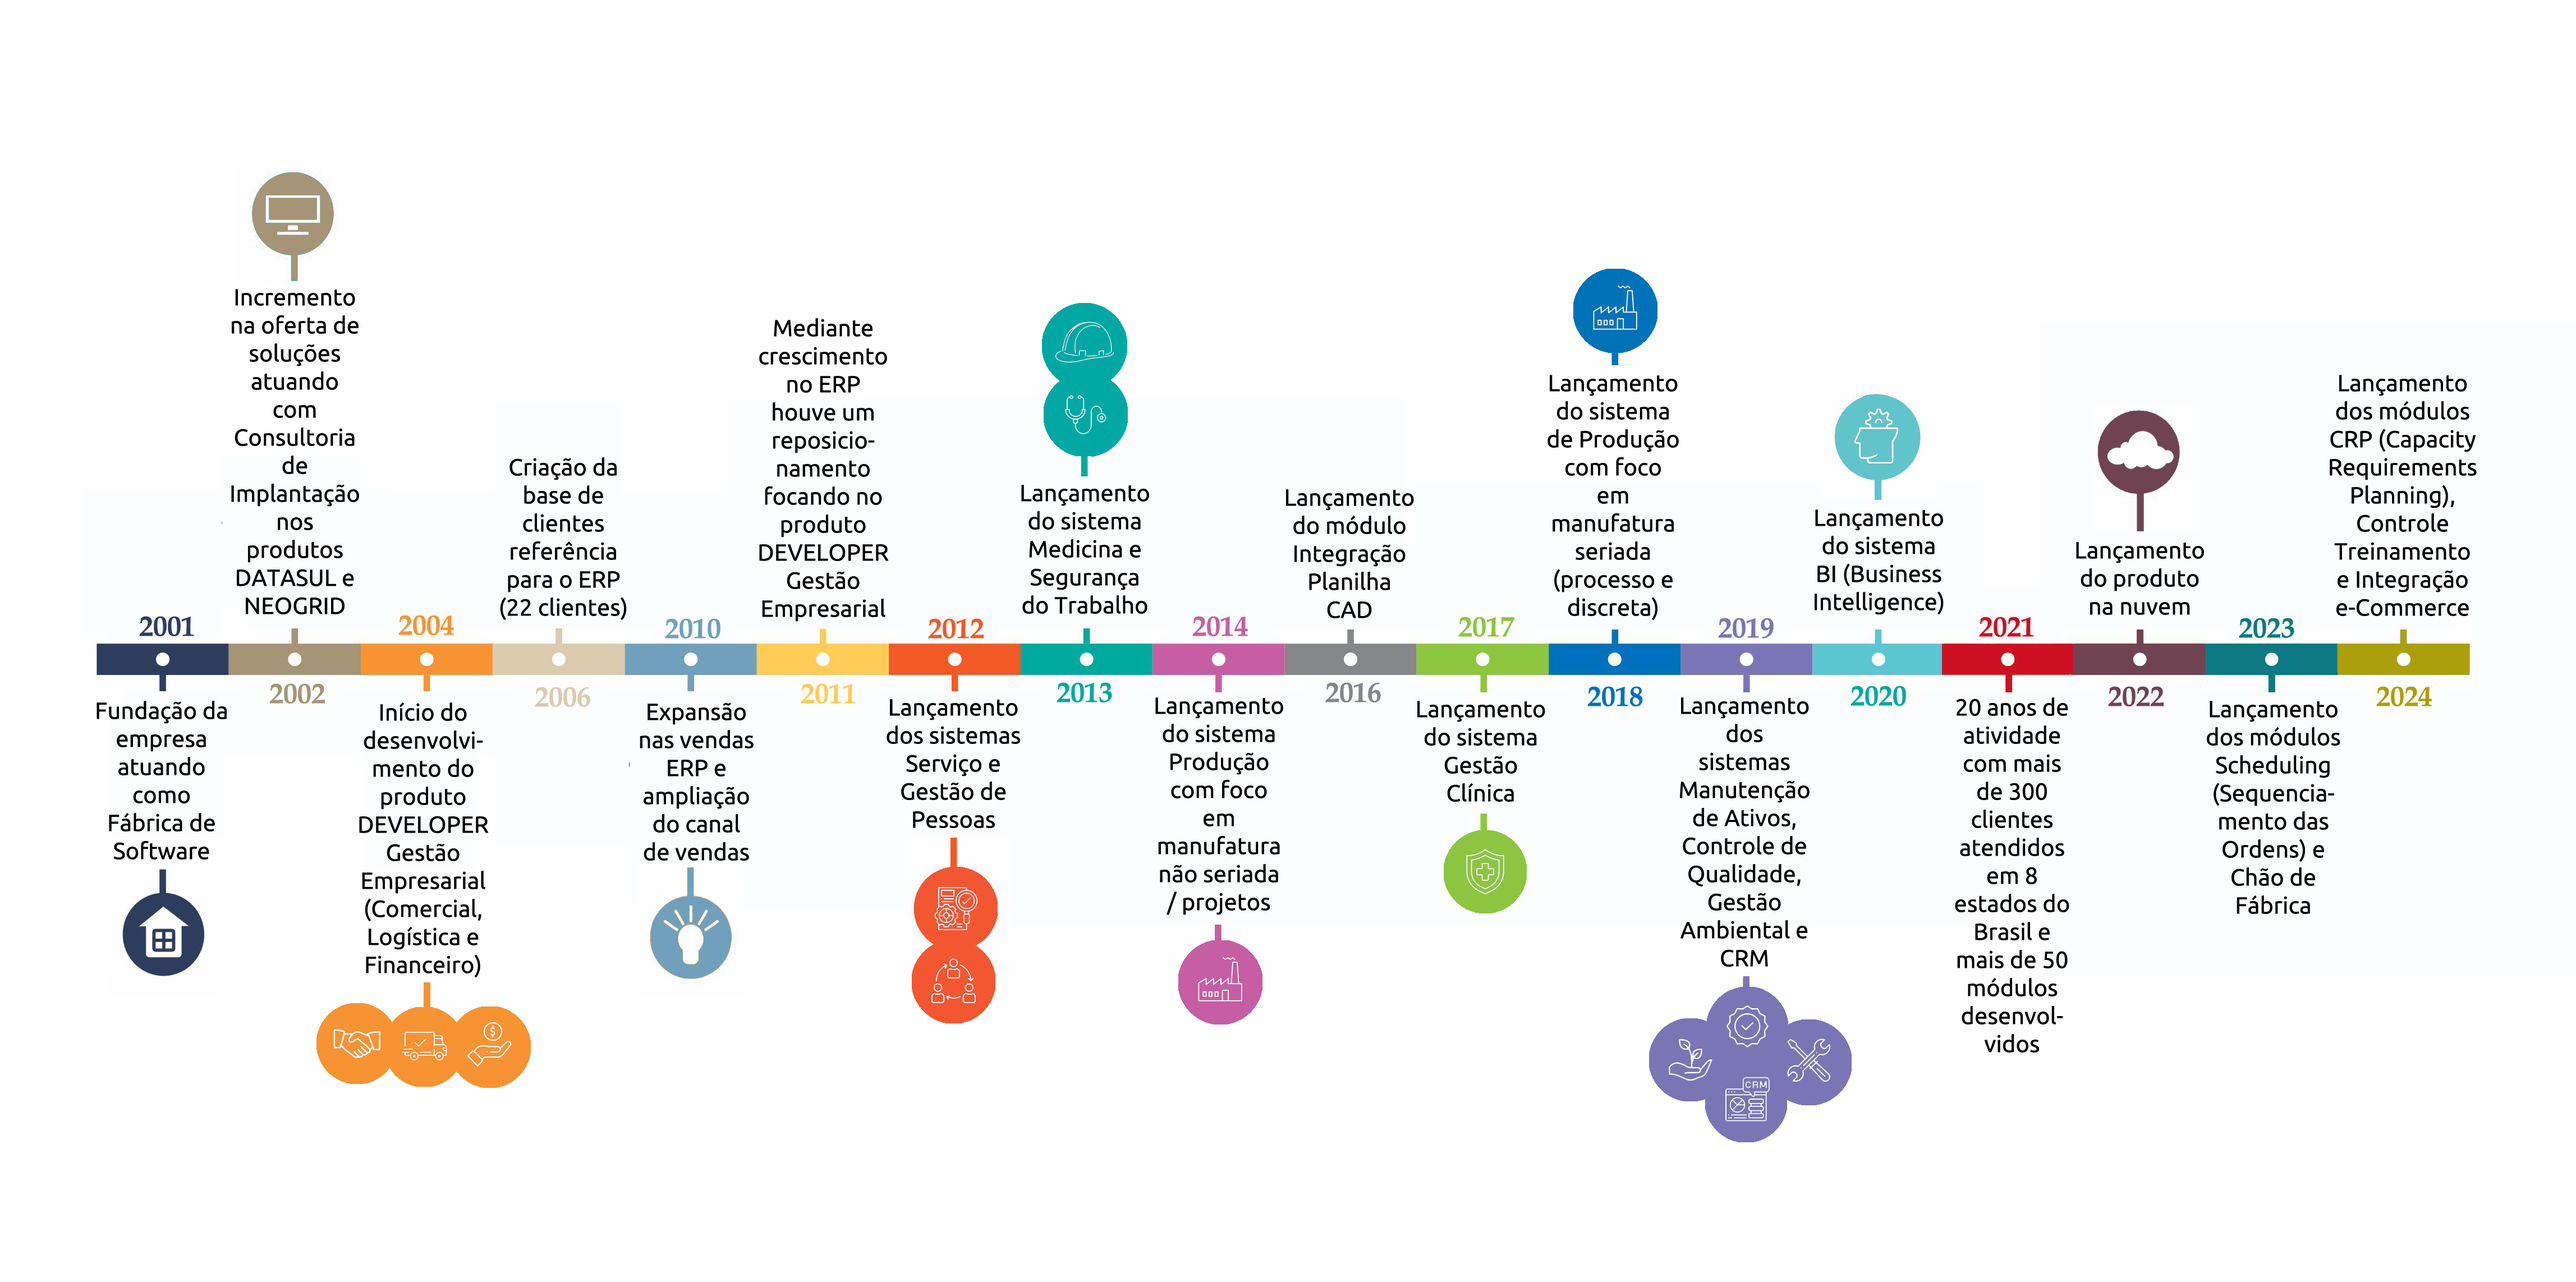
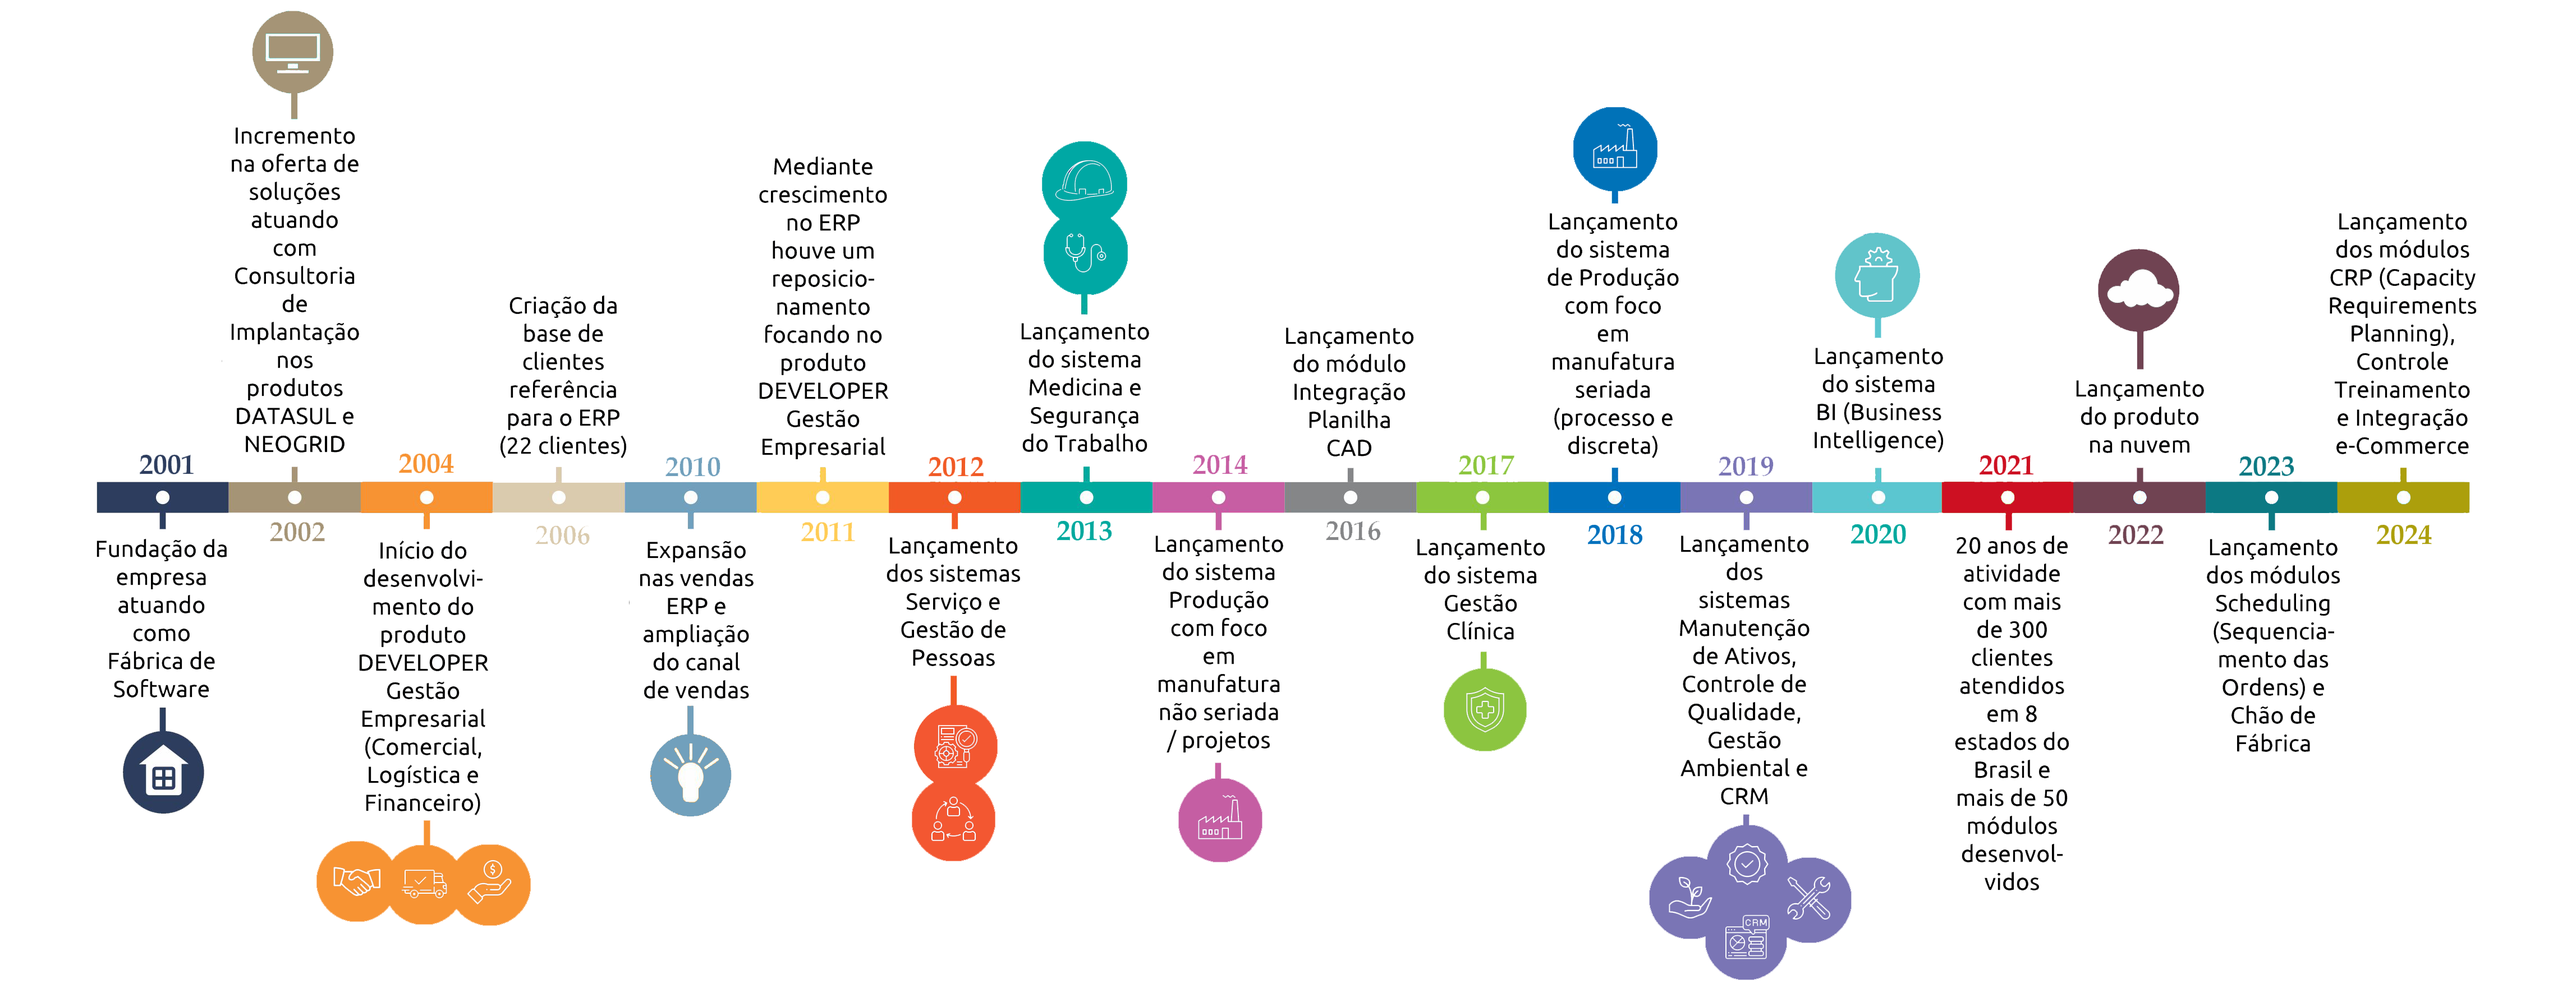
Adicionando imagem

Changed region(s): [[0.0311, 0.0932, 0.9656, 0.9938], [0.0934, 0.0, 0.1557, 0.0932]]

diff --git a/frontend/src/pages/Empresa/index.js b/frontend/src/pages/Empresa/index.js
@@ -6,7 +6,7 @@ import "animate.css/animate.min.css";
 import Header from "../../components/Header";
 import Footer from "../../components/Footer";
 import Menu from "../../components/Menu";
-import company from '../../assets/linhadotempo.png';
+import linhaDoTempo from '../../assets/linhadotempo.png';
 
 export default function Empresa() {
   return (
@@ -16,9 +16,9 @@ export default function Empresa() {
         <Menu />
 
         <div className="main-container">
+			  <img className="linhaTempo" alt="Developer Software ERP Gestão Empresarial" src={linhaDoTempo}/>
           <div className="animate__animated animate__fadeIn">
             <div className="history-content">
-            {/*<img alt="Developer Software ERP Gestão Empresarial" src={company}/>*/} 
               <h1>Sobre a DEVELOPER SOFTWARE</h1>
               <p>
                 Com respeito, qualidade, inovação e comprometimento. Foi desta

diff --git a/frontend/src/pages/Empresa/styles.css b/frontend/src/pages/Empresa/styles.css
@@ -82,3 +82,10 @@
   font: 300 16px Ubuntu, sans-serif;
   text-align: justify;
 }
+
+.linhaTempo {
+	display: block;
+	margin-left: auto;
+	margin-right: auto;
+	width: 90%;
+}
